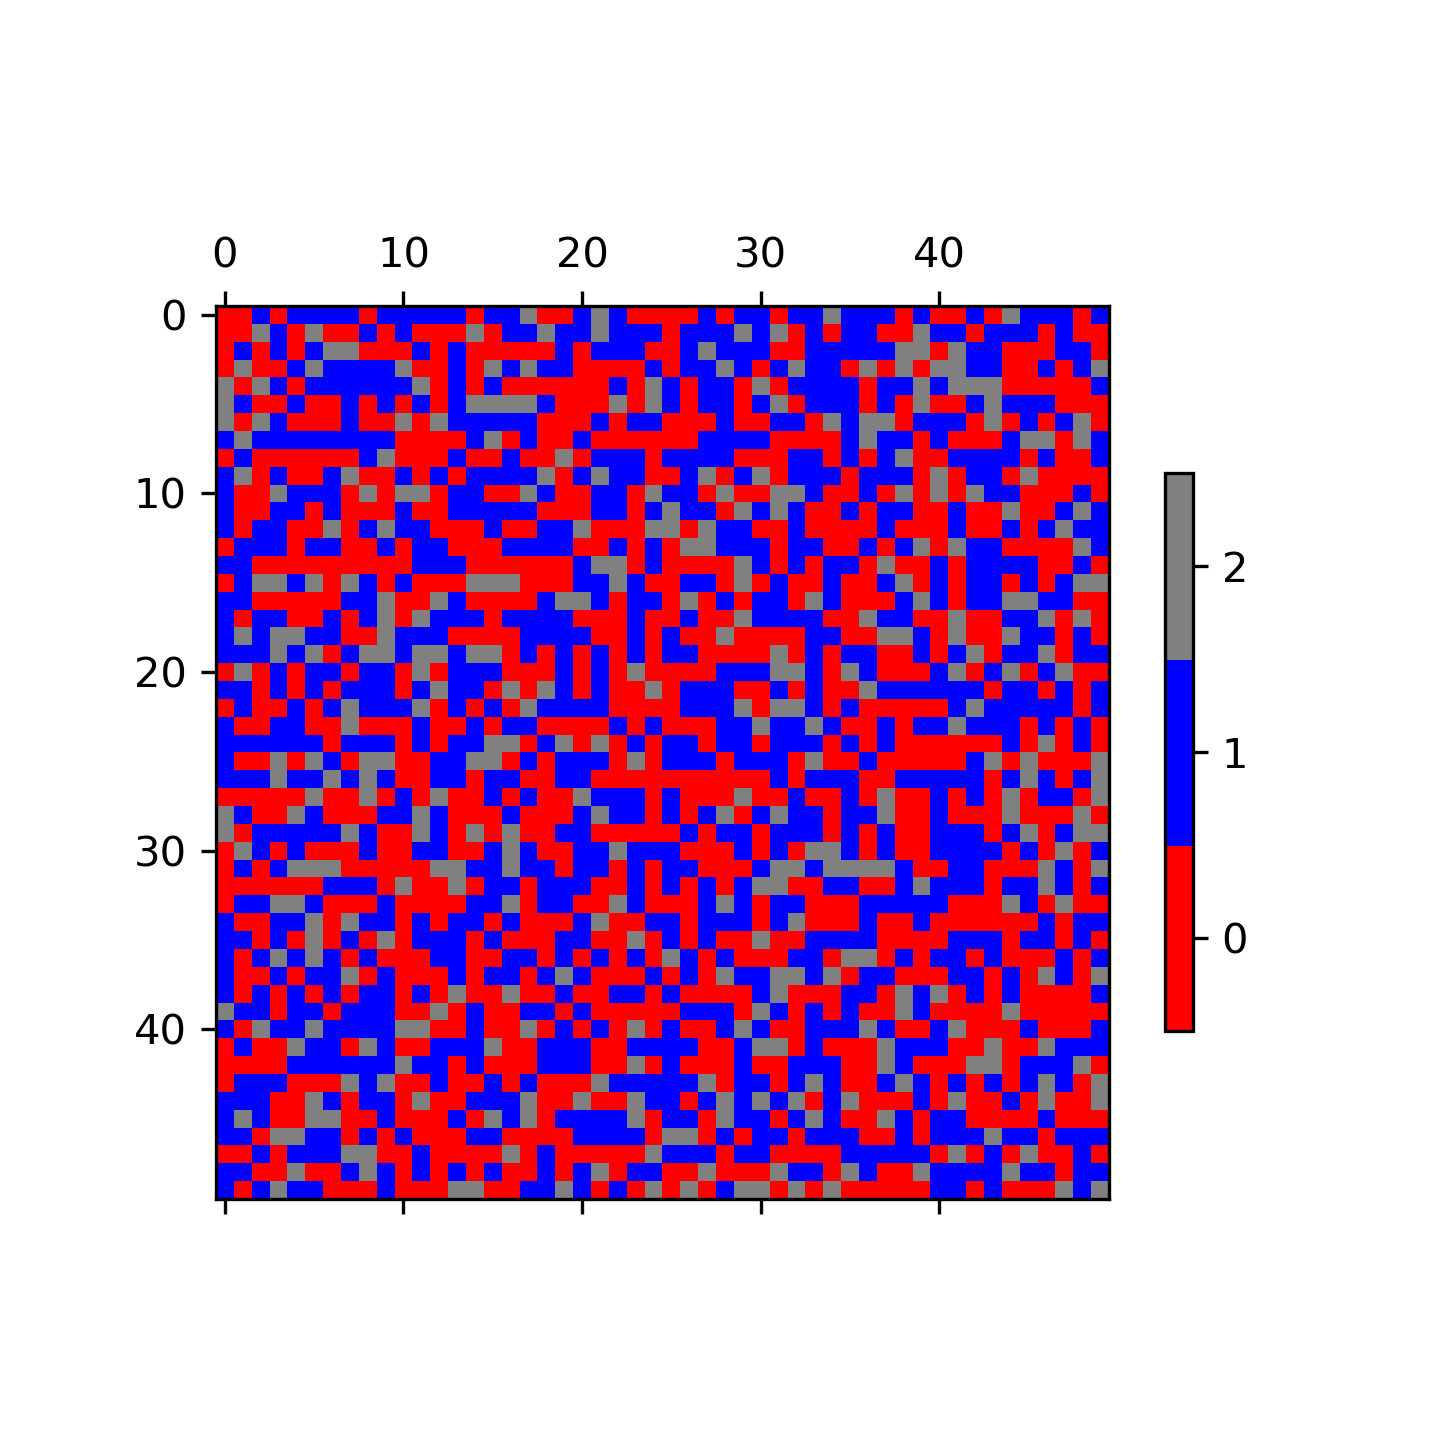
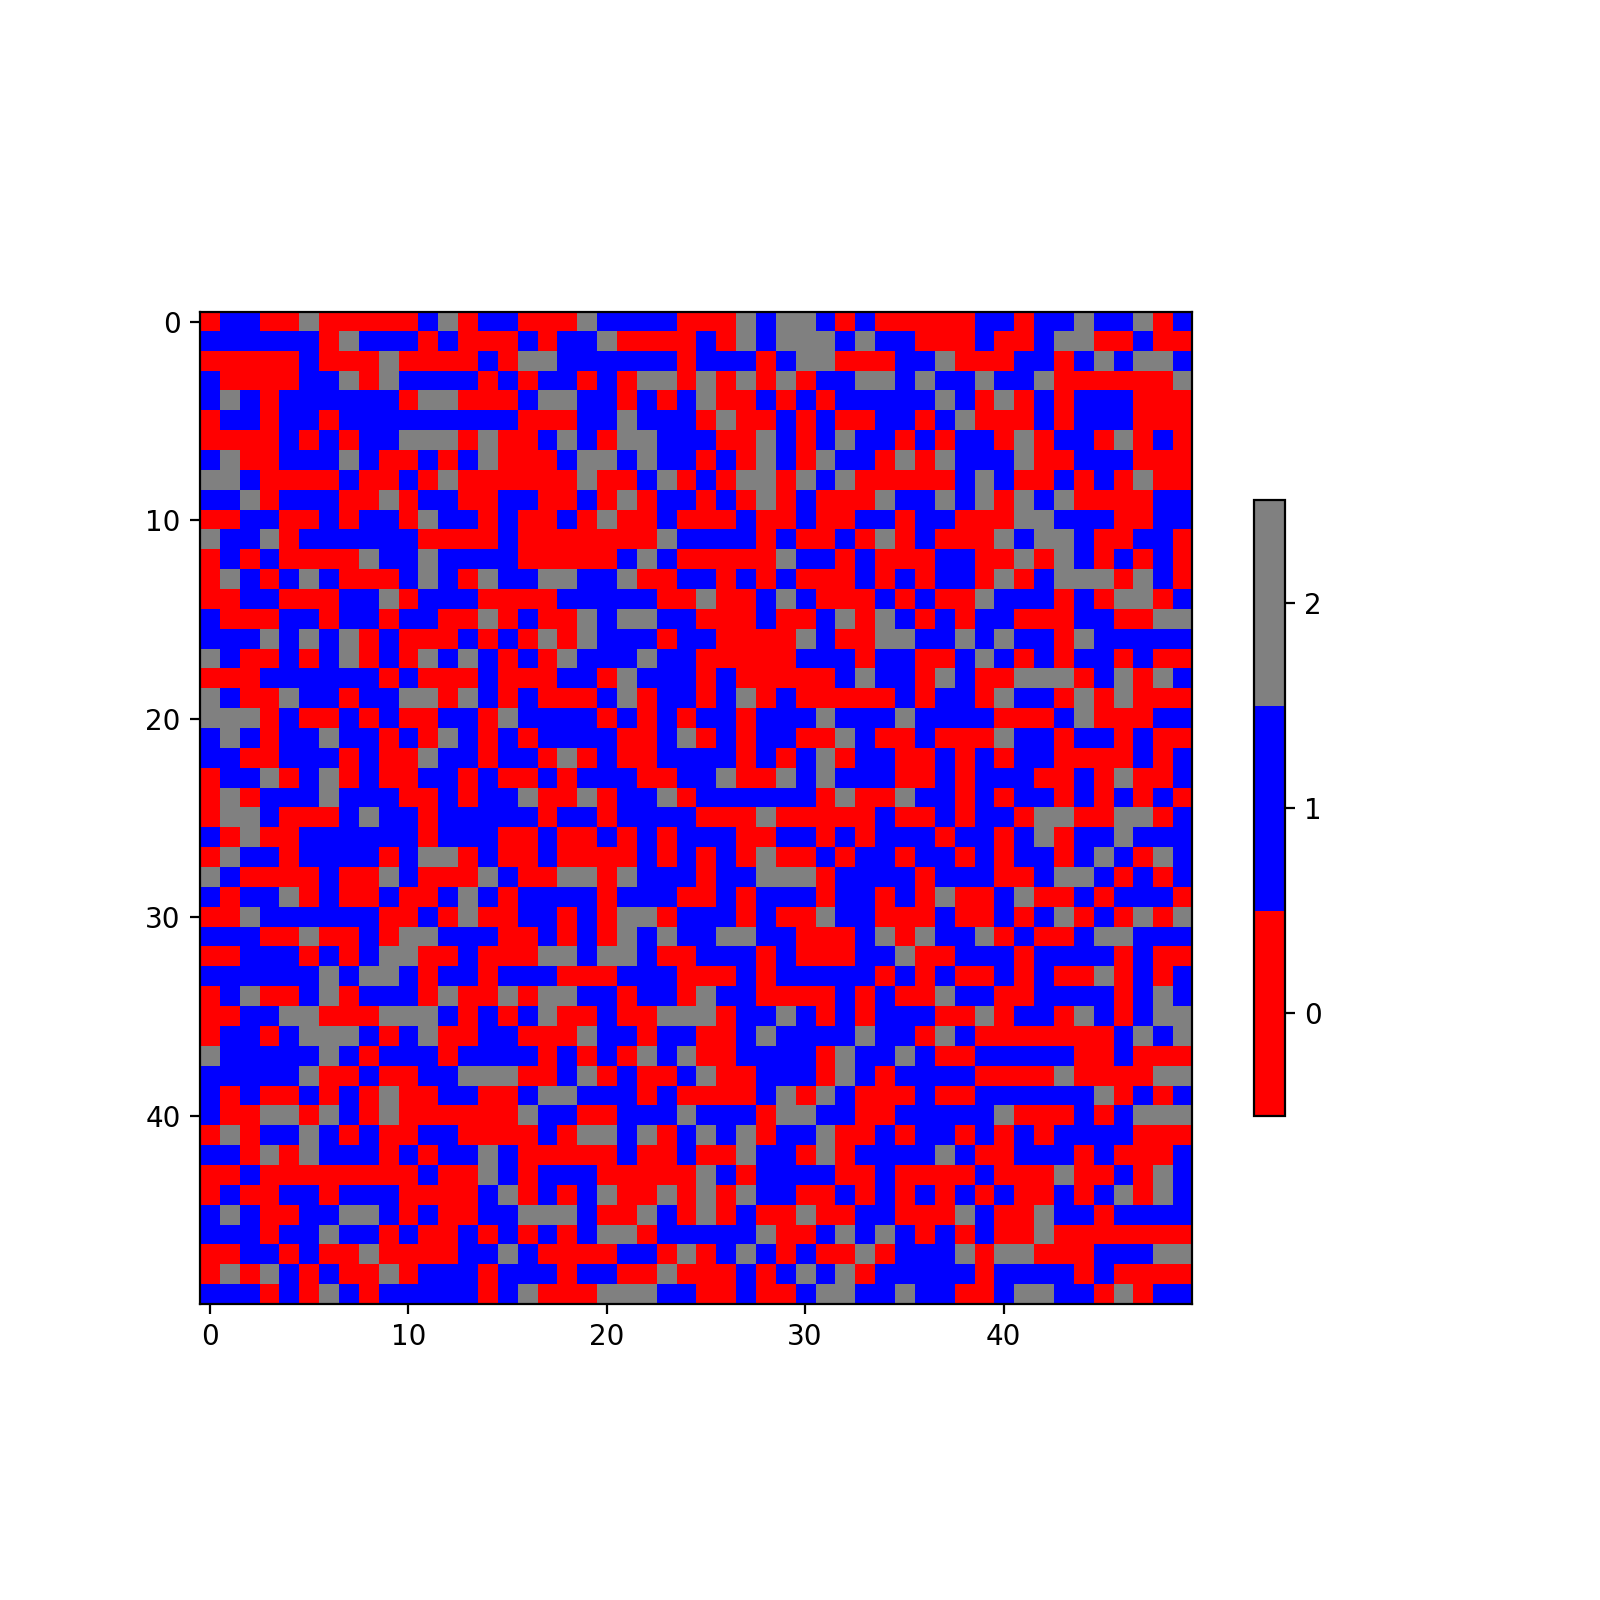
updated pkg

diff --git a/segregation.py b/segregation.py
@@ -1,6 +1,7 @@
 import os
 import numpy as np
-import pysal as ps
+import matplotlib.pyplot as plt
+from libpysal.weights import lat2W
 from util import *
 
 class seg_sim(object):
@@ -58,11 +59,36 @@ class seg_sim(object):
         self.population[:, 2] = np.random.uniform(-1, 1, size=nx*nx)
 
         # Initialize the World
-        self.world = ps.lat2W(nx, nx, rook=False)
+        self.world = lat2W(nx, nx, rook=False)
     
-    def move_stage(self):
+    def move_stage(self, show_progress=False, save_figures=True):
 
-        plot_map(self.population[:, 0], self.nx, 0, True)
+        pop = self.population
+        W = self.world
+        nx = self.nx
+
+        img = plot_map(pop[:, 0], nx, 0, saving=save_figures)
+
+        for t in range(self.epoch):
+            # Randomly pick an agent
+            loc = np.random.randint(0, self.npop)
+            # For those are not empty agents
+            if pop[loc, 0] < 2:
+                in_g = pop[loc, 0]
+                out_g = 1 - in_g
+                n_in_g = np.sum(pop[W.neighbors[loc], 0] == in_g)
+                n_out_g = np.sum(pop[W.neighbors[loc], 0] == out_g)
+                if n_out_g > 0 and n_in_g / n_out_g < self.threshold:
+                    mv = np.random.randint(0, self.NGE)
+                    des = np.where(pop[:,0] == 2)[0][mv]
+                    pop[des, :] = pop[loc, :]
+                    pop[loc, 0] = 2
+                    
+                    if show_progress:
+                        img.set_data(pop[:, 0].reshape(nx, nx))
+                        plt.draw(), plt.pause(0.1)
+        
+        _ = plot_map(pop[:, 0], nx, 'after_move', saving=save_figures)
 
 if __name__ == '__main__':
     SEG = seg_sim()

diff --git a/util.py b/util.py
@@ -23,14 +23,15 @@ def plot_map(pop, nx, st, saving=False):
     # reshape the population to the shape of the grid world
     girdmap = pop.reshape((nx, nx))
     # initiate the plot and add the color bar legend
-    img = plt.matshow(girdmap, cmap=cmap)
+    fig = plt.figure(figsize=(8, 8))
+    ax = fig.gca()
+    img = ax.imshow(girdmap, cmap=cmap)
     plt.colorbar(img, cmap=cmap, boundaries=bounds, ticks=np.arange(np.min(girdmap),np.max(girdmap)+1), shrink=0.5)
-    # save or show the plot
+    # save the plot
     if saving:
         filename = 'map_time_{0}.png'.format(st)
         filepath = os.path.join(OUTPUT, filename)
-        plt.savefig(filepath, dpi=300, facecolor='white')
-    else:
-        plt.show()
-    plt.close()
+        plt.savefig(filepath, dpi=200, facecolor='white')
+    
+    return img
     
